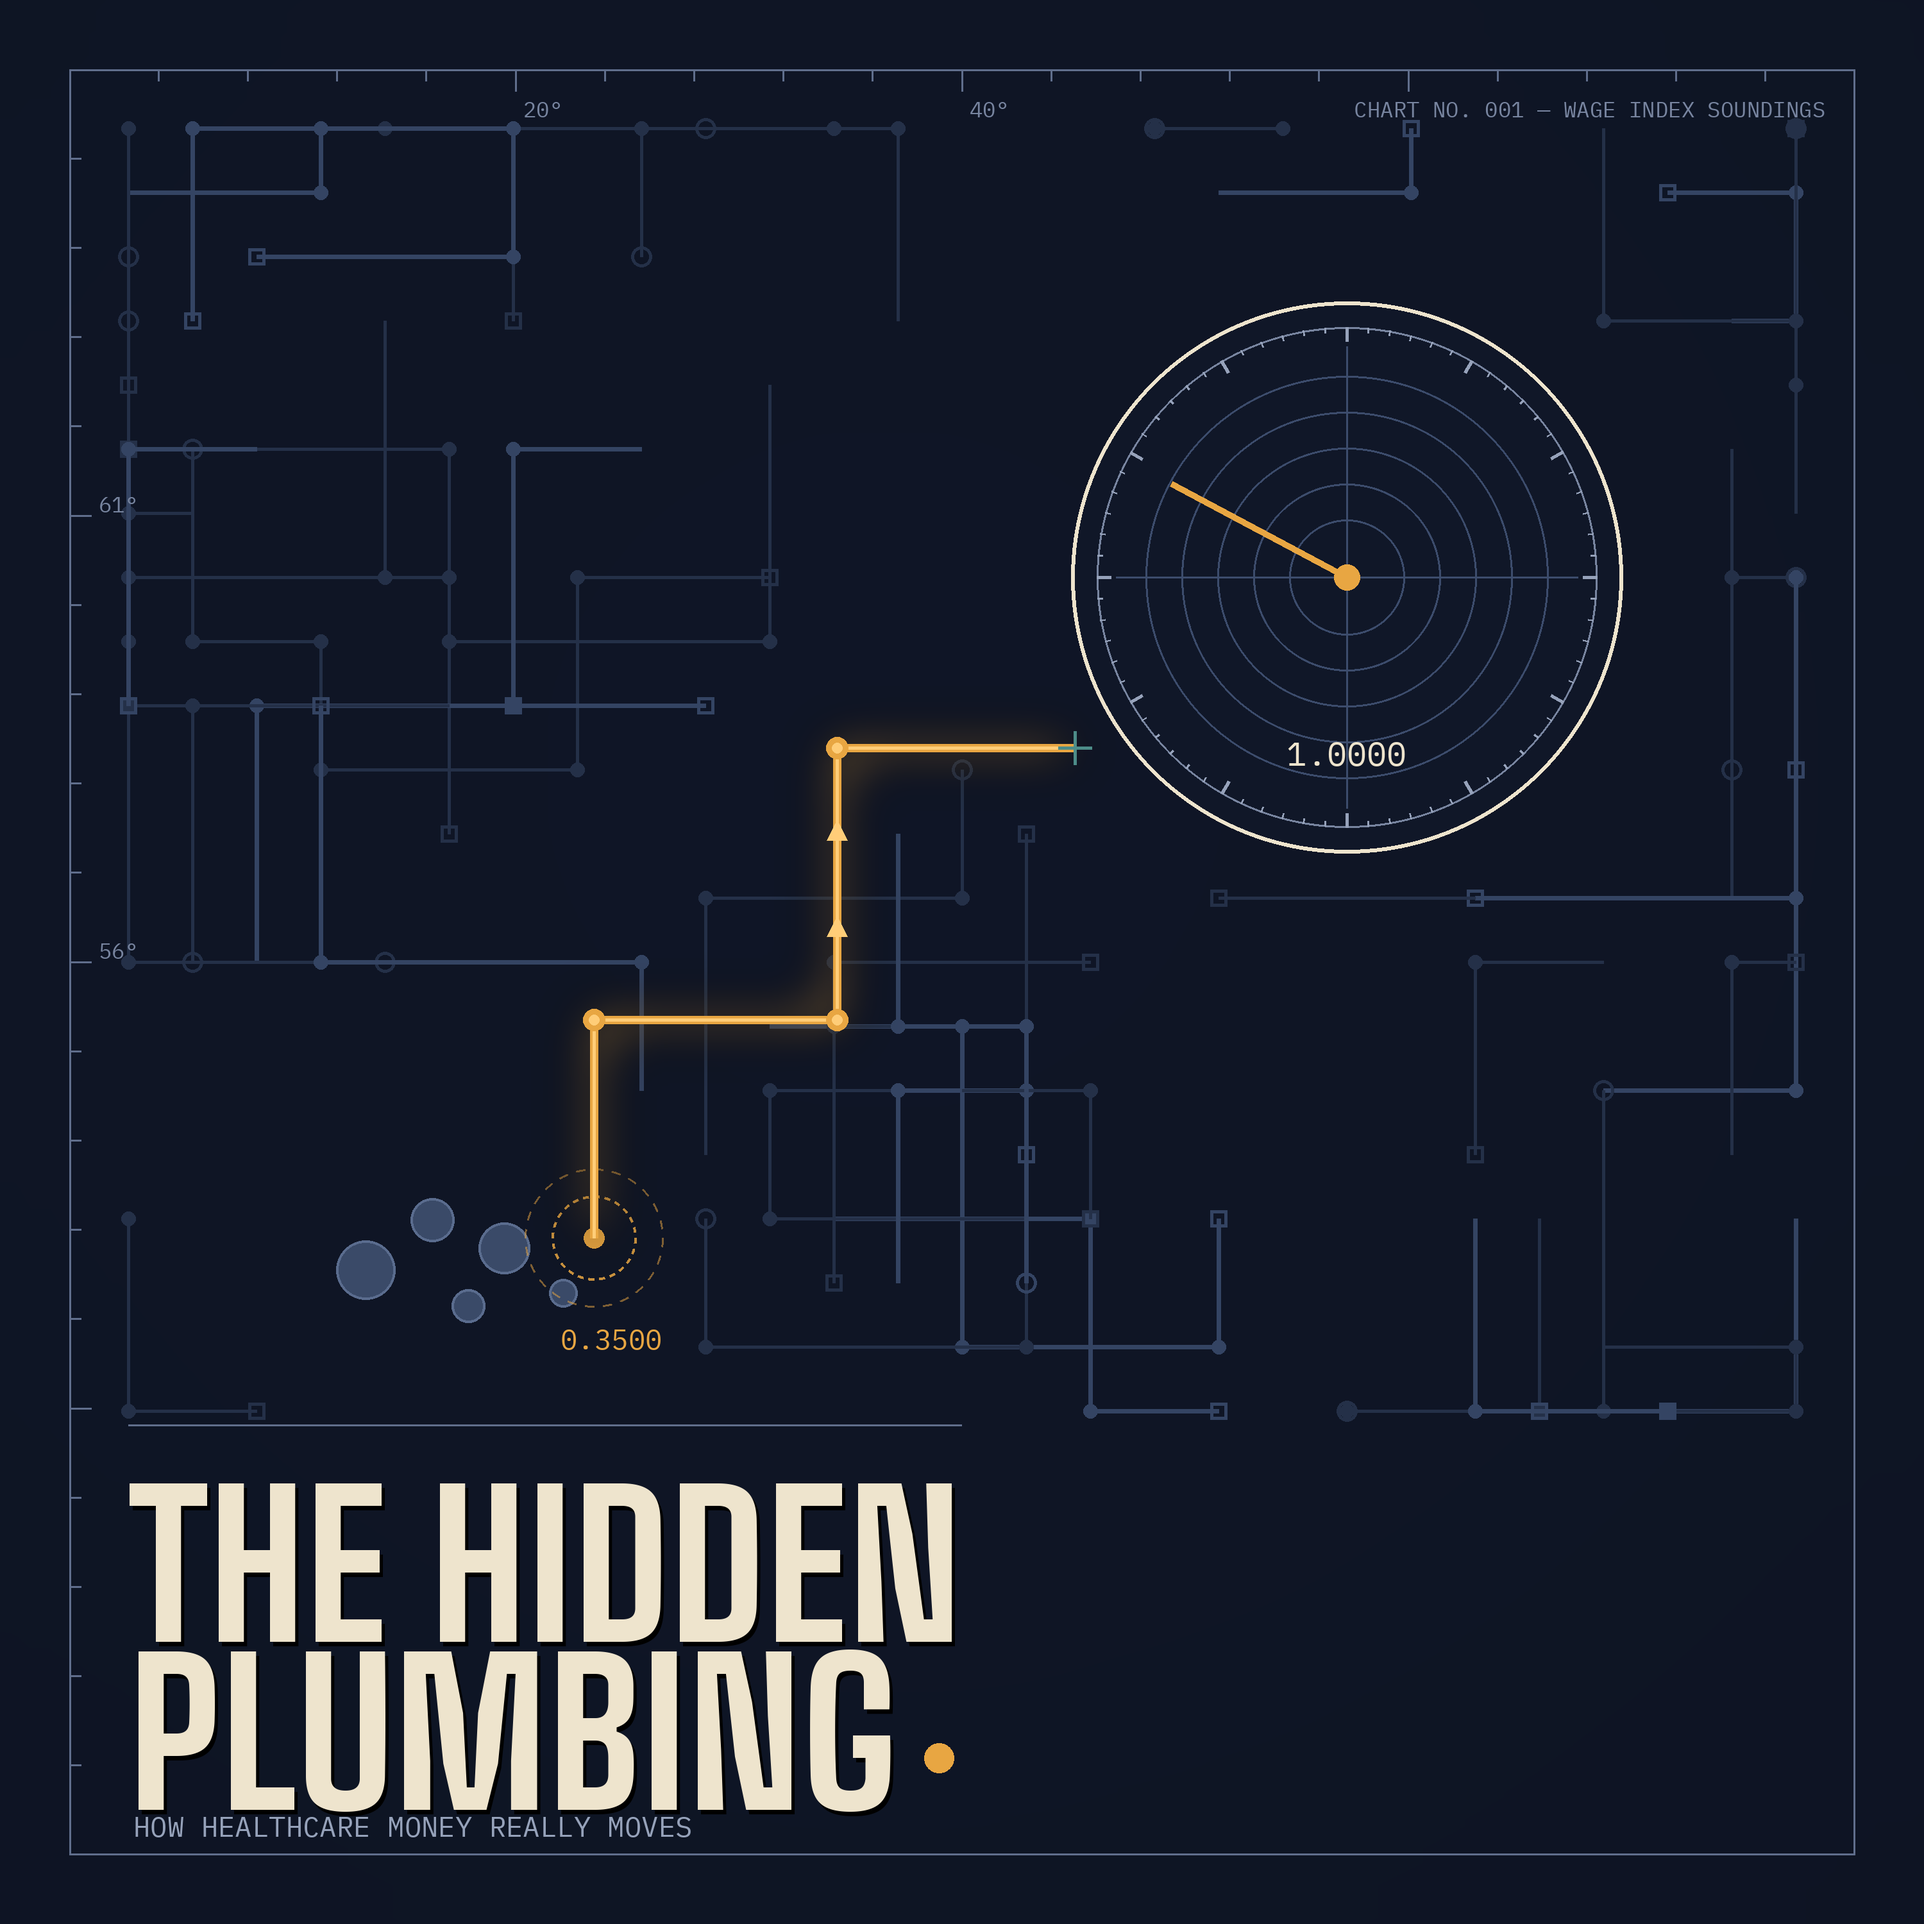
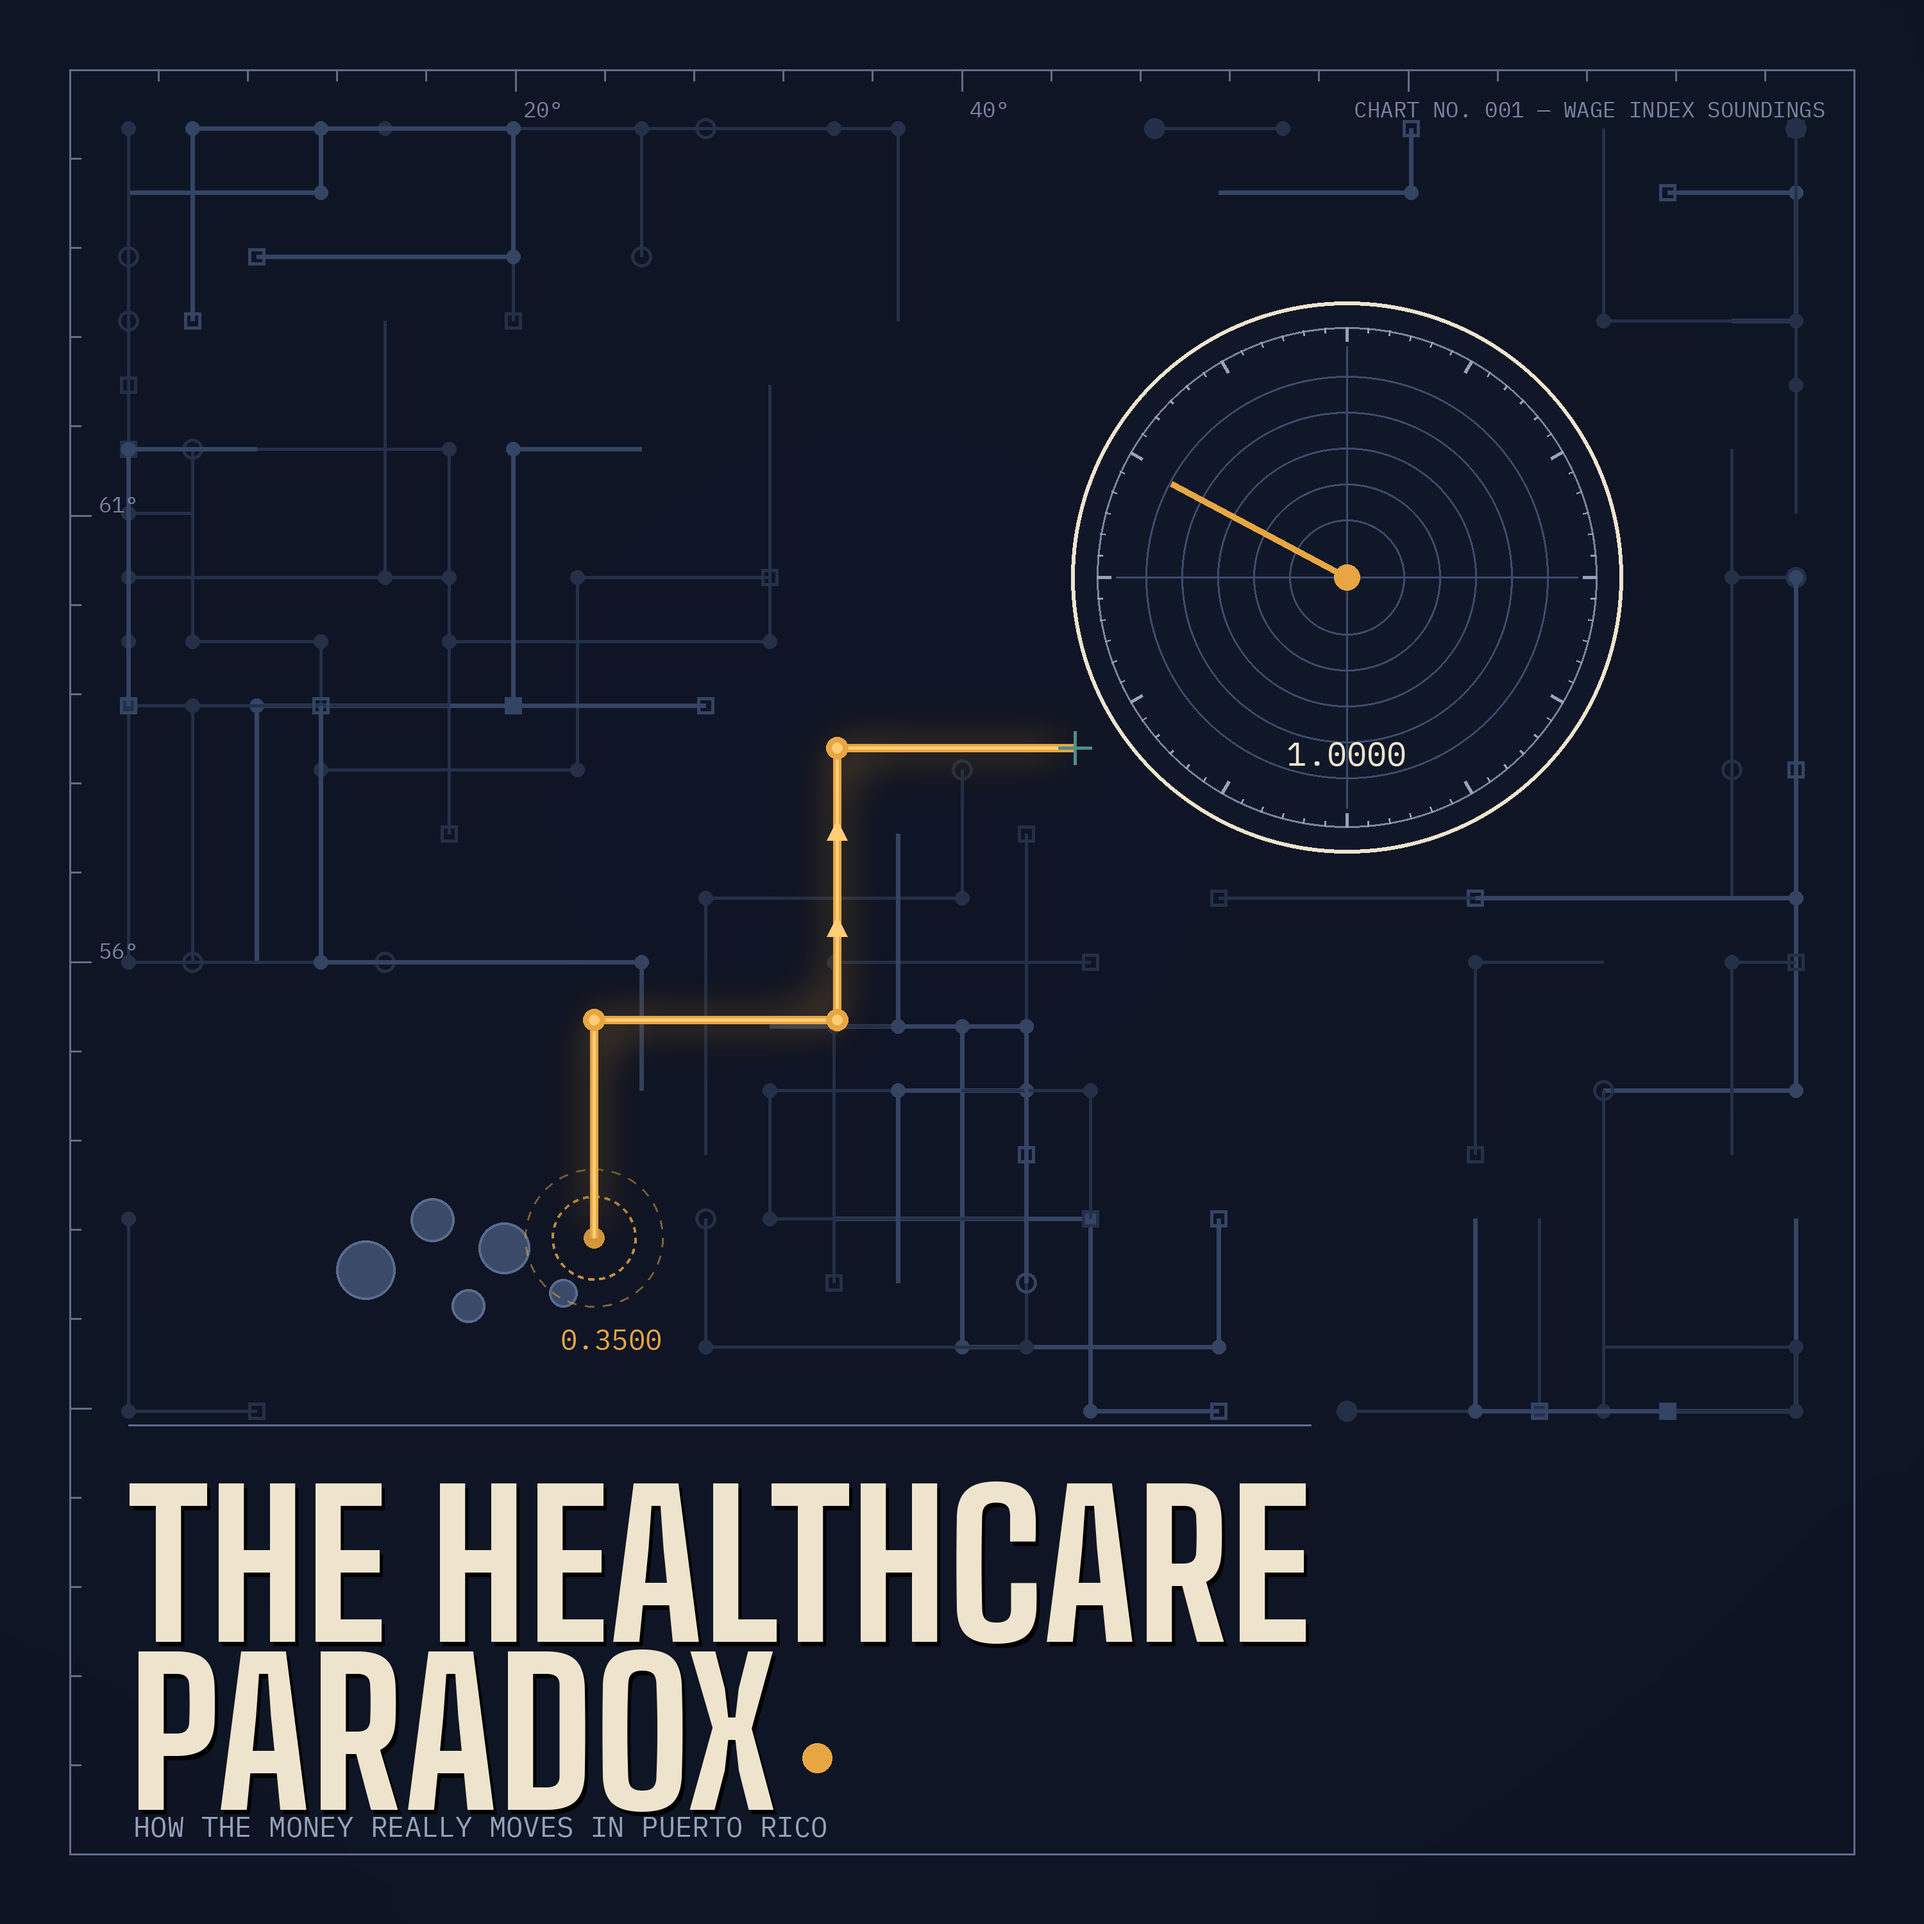
Rename show to "The Healthcare Paradox"
New title and subtitle ("How the money really moves in Puerto Rico")
in config and regenerated on the cover art wordmark.

Claude-Session: https://claude.ai/code/session_01VAB5PzjvL1ddaUSN2kmF8U

Changed region(s): [[0.093, 0.744, 0.682, 0.961]]

diff --git a/scripts/make_cover.py b/scripts/make_cover.py
@@ -1,5 +1,5 @@
 #!/usr/bin/env python3
-"""The Hidden Plumbing — podcast cover, 3000x3000.
+"""The Healthcare Paradox — podcast cover, 3000x3000.
 
 Actuarial Cartography: a dark chart of hidden fiscal currents. A faint
 orthogonal lattice of conduits; one luminous amber route rising from a small
@@ -216,7 +216,7 @@ d.line([(jx, jy - 26), (jx, jy + 26)], fill=TEAL, width=5)
 
 # ------------------------------------------------------------- title block
 big = font("BigShoulders-Bold.ttf", 308)
-line1, line2 = "THE HIDDEN", "PLUMBING"
+line1, line2 = "THE HEALTHCARE", "PARADOX"
 tx = frame + 92
 ty = TITLE_TOP - 24
 d.line([(tx, ty - 34), (tx + d.textlength(line1, font=big), ty - 34)],
@@ -231,7 +231,7 @@ w2 = d.textlength(line2, font=big)
 d.ellipse([tx + w2 + 42, y2 + 200, tx + w2 + 88, y2 + 246], fill=AMBER)
 # whispered subtitle, inside the frame with clear margin
 sub = font("IBMPlexMono-Regular.ttf", 44)
-d.text((tx + 8, y2 + 300), "HOW HEALTHCARE MONEY REALLY MOVES",
+d.text((tx + 8, y2 + 300), "HOW THE MONEY REALLY MOVES IN PUERTO RICO",
        font=sub, fill=(150, 162, 186))
 
 # chart signature, tiny, upper-right inside frame
@@ -241,4 +241,4 @@ d.text((S - frame - d.textlength(label, font=sig) - 46, frame + 40),
        label, font=sig, fill=(120, 133, 160))
 
 img.save(str(__import__("pathlib").Path(__file__).resolve().parent.parent / "assets" / "cover.png"), "PNG")
-print("cover_v2.png written")
+print("assets/cover.png written")
